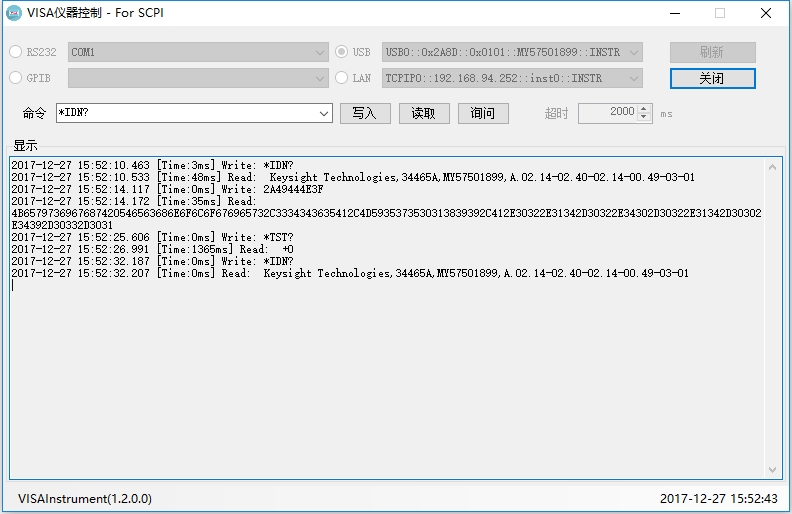
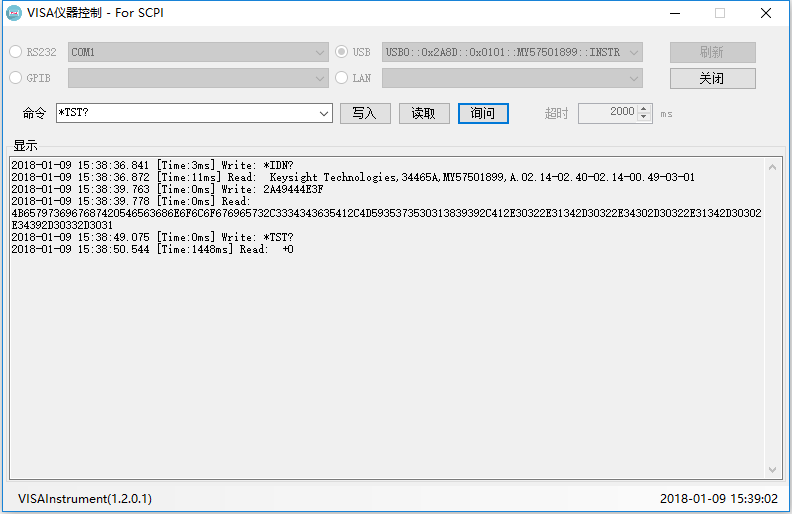
修正当无VISA32时不能正常显示软件的问题

diff --git a/VISAInstrument/FrmMain.Designer.cs b/VISAInstrument/FrmMain.Designer.cs
@@ -64,6 +64,13 @@
             this.flowLayoutPanel3 = new System.Windows.Forms.FlowLayoutPanel();
             this.lblCommand = new System.Windows.Forms.Label();
             this.cboCommand = new System.Windows.Forms.ComboBox();
+            this.cmsCommand = new System.Windows.Forms.ContextMenuStrip(this.components);
+            this.aSCIIToolStripMenuItem = new System.Windows.Forms.ToolStripMenuItem();
+            this.hexToolStripMenuItem = new System.Windows.Forms.ToolStripMenuItem();
+            this.toolStripMenuItem2 = new System.Windows.Forms.ToolStripSeparator();
+            this.全选ToolStripMenuItem1 = new System.Windows.Forms.ToolStripMenuItem();
+            this.复制ToolStripMenuItem1 = new System.Windows.Forms.ToolStripMenuItem();
+            this.粘贴ToolStripMenuItem = new System.Windows.Forms.ToolStripMenuItem();
             this.btnWrite = new System.Windows.Forms.Button();
             this.btnRead = new System.Windows.Forms.Button();
             this.btnQuery = new System.Windows.Forms.Button();
@@ -73,12 +80,6 @@
             this.flowLayoutPanel5 = new System.Windows.Forms.FlowLayoutPanel();
             this.lblIP = new System.Windows.Forms.Label();
             this.txtIPAddress = new System.Windows.Forms.TextBox();
-            this.cmsCommand = new System.Windows.Forms.ContextMenuStrip(this.components);
-            this.aSCIIToolStripMenuItem = new System.Windows.Forms.ToolStripMenuItem();
-            this.hexToolStripMenuItem = new System.Windows.Forms.ToolStripMenuItem();
-            this.toolStripMenuItem2 = new System.Windows.Forms.ToolStripSeparator();
-            this.复制ToolStripMenuItem1 = new System.Windows.Forms.ToolStripMenuItem();
-            this.粘贴ToolStripMenuItem = new System.Windows.Forms.ToolStripMenuItem();
             this.btnCheckIP = new System.Windows.Forms.Button();
             this.menuStrip1 = new System.Windows.Forms.MenuStrip();
             this.关于ToolStripMenuItem = new System.Windows.Forms.ToolStripMenuItem();
@@ -87,7 +88,6 @@
             this.toolStripMenuItem3 = new System.Windows.Forms.ToolStripSeparator();
             this.byCNXYToolStripMenuItem1 = new System.Windows.Forms.ToolStripMenuItem();
             this.时间ToolStripMenuItem = new System.Windows.Forms.ToolStripMenuItem();
-            this.全选ToolStripMenuItem1 = new System.Windows.Forms.ToolStripMenuItem();
             this.tableLayoutPanel.SuspendLayout();
             this.flowLayoutPanel1.SuspendLayout();
             this.flowLayoutPanel2.SuspendLayout();
@@ -95,9 +95,9 @@
             this.groupBoxDisplay.SuspendLayout();
             this.contextMenuStrip.SuspendLayout();
             this.flowLayoutPanel3.SuspendLayout();
+            this.cmsCommand.SuspendLayout();
             ((System.ComponentModel.ISupportInitialize)(this.nudTimeout)).BeginInit();
             this.flowLayoutPanel5.SuspendLayout();
-            this.cmsCommand.SuspendLayout();
             this.menuStrip1.SuspendLayout();
             this.SuspendLayout();
             // 
@@ -484,6 +484,61 @@
             this.cboCommand.Size = new System.Drawing.Size(277, 20);
             this.cboCommand.TabIndex = 1;
             // 
+            // cmsCommand
+            // 
+            this.cmsCommand.Items.AddRange(new System.Windows.Forms.ToolStripItem[] {
+            this.aSCIIToolStripMenuItem,
+            this.hexToolStripMenuItem,
+            this.toolStripMenuItem2,
+            this.全选ToolStripMenuItem1,
+            this.复制ToolStripMenuItem1,
+            this.粘贴ToolStripMenuItem});
+            this.cmsCommand.Name = "contextMenuStrip";
+            this.cmsCommand.Size = new System.Drawing.Size(108, 120);
+            this.cmsCommand.Opening += new System.ComponentModel.CancelEventHandler(this.cmsCommand_Opening);
+            // 
+            // aSCIIToolStripMenuItem
+            // 
+            this.aSCIIToolStripMenuItem.Checked = true;
+            this.aSCIIToolStripMenuItem.CheckState = System.Windows.Forms.CheckState.Checked;
+            this.aSCIIToolStripMenuItem.Name = "aSCIIToolStripMenuItem";
+            this.aSCIIToolStripMenuItem.Size = new System.Drawing.Size(107, 22);
+            this.aSCIIToolStripMenuItem.Text = "ASCII";
+            this.aSCIIToolStripMenuItem.Click += new System.EventHandler(this.aSCIIToolStripMenuItem_Click);
+            // 
+            // hexToolStripMenuItem
+            // 
+            this.hexToolStripMenuItem.Name = "hexToolStripMenuItem";
+            this.hexToolStripMenuItem.Size = new System.Drawing.Size(107, 22);
+            this.hexToolStripMenuItem.Text = "Hex";
+            this.hexToolStripMenuItem.Click += new System.EventHandler(this.hexToolStripMenuItem_Click);
+            // 
+            // toolStripMenuItem2
+            // 
+            this.toolStripMenuItem2.Name = "toolStripMenuItem2";
+            this.toolStripMenuItem2.Size = new System.Drawing.Size(104, 6);
+            // 
+            // 全选ToolStripMenuItem1
+            // 
+            this.全选ToolStripMenuItem1.Name = "全选ToolStripMenuItem1";
+            this.全选ToolStripMenuItem1.Size = new System.Drawing.Size(107, 22);
+            this.全选ToolStripMenuItem1.Text = "全选";
+            this.全选ToolStripMenuItem1.Click += new System.EventHandler(this.全选ToolStripMenuItem1_Click);
+            // 
+            // 复制ToolStripMenuItem1
+            // 
+            this.复制ToolStripMenuItem1.Name = "复制ToolStripMenuItem1";
+            this.复制ToolStripMenuItem1.Size = new System.Drawing.Size(107, 22);
+            this.复制ToolStripMenuItem1.Text = "复制";
+            this.复制ToolStripMenuItem1.Click += new System.EventHandler(this.复制ToolStripMenuItem1_Click);
+            // 
+            // 粘贴ToolStripMenuItem
+            // 
+            this.粘贴ToolStripMenuItem.Name = "粘贴ToolStripMenuItem";
+            this.粘贴ToolStripMenuItem.Size = new System.Drawing.Size(107, 22);
+            this.粘贴ToolStripMenuItem.Text = "粘贴";
+            this.粘贴ToolStripMenuItem.Click += new System.EventHandler(this.粘贴ToolStripMenuItem_Click);
+            // 
             // btnWrite
             // 
             this.btnWrite.Anchor = System.Windows.Forms.AnchorStyles.Left;
@@ -592,54 +647,6 @@
             this.txtIPAddress.Size = new System.Drawing.Size(277, 21);
             this.txtIPAddress.TabIndex = 1;
             // 
-            // cmsCommand
-            // 
-            this.cmsCommand.Items.AddRange(new System.Windows.Forms.ToolStripItem[] {
-            this.aSCIIToolStripMenuItem,
-            this.hexToolStripMenuItem,
-            this.toolStripMenuItem2,
-            this.全选ToolStripMenuItem1,
-            this.复制ToolStripMenuItem1,
-            this.粘贴ToolStripMenuItem});
-            this.cmsCommand.Name = "contextMenuStrip";
-            this.cmsCommand.Size = new System.Drawing.Size(153, 142);
-            this.cmsCommand.Opening += new System.ComponentModel.CancelEventHandler(this.cmsCommand_Opening);
-            // 
-            // aSCIIToolStripMenuItem
-            // 
-            this.aSCIIToolStripMenuItem.Checked = true;
-            this.aSCIIToolStripMenuItem.CheckState = System.Windows.Forms.CheckState.Checked;
-            this.aSCIIToolStripMenuItem.Name = "aSCIIToolStripMenuItem";
-            this.aSCIIToolStripMenuItem.Size = new System.Drawing.Size(152, 22);
-            this.aSCIIToolStripMenuItem.Text = "ASCII";
-            this.aSCIIToolStripMenuItem.Click += new System.EventHandler(this.aSCIIToolStripMenuItem_Click);
-            // 
-            // hexToolStripMenuItem
-            // 
-            this.hexToolStripMenuItem.Name = "hexToolStripMenuItem";
-            this.hexToolStripMenuItem.Size = new System.Drawing.Size(152, 22);
-            this.hexToolStripMenuItem.Text = "Hex";
-            this.hexToolStripMenuItem.Click += new System.EventHandler(this.hexToolStripMenuItem_Click);
-            // 
-            // toolStripMenuItem2
-            // 
-            this.toolStripMenuItem2.Name = "toolStripMenuItem2";
-            this.toolStripMenuItem2.Size = new System.Drawing.Size(149, 6);
-            // 
-            // 复制ToolStripMenuItem1
-            // 
-            this.复制ToolStripMenuItem1.Name = "复制ToolStripMenuItem1";
-            this.复制ToolStripMenuItem1.Size = new System.Drawing.Size(152, 22);
-            this.复制ToolStripMenuItem1.Text = "复制";
-            this.复制ToolStripMenuItem1.Click += new System.EventHandler(this.复制ToolStripMenuItem1_Click);
-            // 
-            // 粘贴ToolStripMenuItem
-            // 
-            this.粘贴ToolStripMenuItem.Name = "粘贴ToolStripMenuItem";
-            this.粘贴ToolStripMenuItem.Size = new System.Drawing.Size(152, 22);
-            this.粘贴ToolStripMenuItem.Text = "粘贴";
-            this.粘贴ToolStripMenuItem.Click += new System.EventHandler(this.粘贴ToolStripMenuItem_Click);
-            // 
             // btnCheckIP
             // 
             this.btnCheckIP.Anchor = System.Windows.Forms.AnchorStyles.Left;
@@ -710,13 +717,6 @@
             this.时间ToolStripMenuItem.Text = "时间";
             this.时间ToolStripMenuItem.Click += new System.EventHandler(this.时间ToolStripMenuItem_Click);
             // 
-            // 全选ToolStripMenuItem1
-            // 
-            this.全选ToolStripMenuItem1.Name = "全选ToolStripMenuItem1";
-            this.全选ToolStripMenuItem1.Size = new System.Drawing.Size(152, 22);
-            this.全选ToolStripMenuItem1.Text = "全选";
-            this.全选ToolStripMenuItem1.Click += new System.EventHandler(this.全选ToolStripMenuItem1_Click);
-            // 
             // FrmMain
             // 
             this.AcceptButton = this.btnOpen;
@@ -744,10 +744,10 @@
             this.contextMenuStrip.ResumeLayout(false);
             this.flowLayoutPanel3.ResumeLayout(false);
             this.flowLayoutPanel3.PerformLayout();
+            this.cmsCommand.ResumeLayout(false);
             ((System.ComponentModel.ISupportInitialize)(this.nudTimeout)).EndInit();
             this.flowLayoutPanel5.ResumeLayout(false);
             this.flowLayoutPanel5.PerformLayout();
-            this.cmsCommand.ResumeLayout(false);
             this.menuStrip1.ResumeLayout(false);
             this.menuStrip1.PerformLayout();
             this.ResumeLayout(false);

diff --git a/VISAInstrument/FrmMain.cs b/VISAInstrument/FrmMain.cs
@@ -253,56 +253,41 @@ namespace VISAInstrument
 
         private void btnRefresh_Click(object sender, EventArgs e)
         {
-            try
+            string title = Text;
+            t = Task.Factory.StartNew(() =>
             {
-                string title = Text;
-                t = Task.Factory.StartNew(() =>
+                InvokeToForm(() => { btnRefresh.Enabled = false; btnOpen.Enabled = false; Text = title + "【正在加载RS232资源中...请稍候...】"; });
+                string[] content1 = PortUltility.FindAddresses(PortType.RS232);
+                string[] content2 = PortUltility.FindRS232Type(content1);
+                List<string> list1 = new List<string>();
+                List<string> list2 = new List<string>();
+                for (int i = 0; i < content2.Length; i++)
                 {
-                    InvokeToForm(() => { btnRefresh.Enabled = false;btnOpen.Enabled = false; Text = title + "【正在加载RS232资源中...请稍候...】"; });
-                    string[] content1 = PortUltility.FindAddresses(PortType.RS232);
-                    string[] content2 = PortUltility.FindRS232Type(content1);
-                    List<string> list1 = new List<string>();
-                    List<string> list2 = new List<string>();
-                    for(int i=0;i<content2.Length;i++)
-                    {
-                        if (content2[i].Contains("LPT")) continue;
-                        list1.Add(content1[i]);
-                        list2.Add(content2[i]);
-                    }
-                    content1 = list1.ToArray();
-                    content2 = list2.ToArray();
-                    InvokeToForm(() => cboRS232.ShowAndDisplay(content1, content2));
-                    InvokeToForm(() => { Text = title + "【正在加载USB资源中...请稍候...】"; });
-                    content1 = PortUltility.FindAddresses(PortType.USB);
-                    InvokeToForm(() => cboUSB.ShowAndDisplay(content1));
-                    InvokeToForm(() => { Text = title + "【正在加载GPIB资源中...请稍候...】"; });
-                    content1 = PortUltility.FindAddresses(PortType.GPIB);
-                    InvokeToForm(() => cboGPIB.ShowAndDisplay(content1));
-                    InvokeToForm(() => { Text = title + "【正在加载LAN资源中...请稍候...】"; });
-                    content1 = PortUltility.FindAddresses(PortType.LAN);
-                    InvokeToForm(() => cboLAN.ShowAndDisplay(content1));
-                    InvokeToForm(() => { btnRefresh.Enabled = true; btnOpen.Enabled = true; Text = title; });
-                });
-            }
-            catch(Exception ex)
+                    if (content2[i].Contains("LPT")) continue;
+                    list1.Add(content1[i]);
+                    list2.Add(content2[i]);
+                }
+                content1 = list1.ToArray();
+                content2 = list2.ToArray();
+                InvokeToForm(() => cboRS232.ShowAndDisplay(content1, content2));
+                InvokeToForm(() => { Text = title + "【正在加载USB资源中...请稍候...】"; });
+                content1 = PortUltility.FindAddresses(PortType.USB);
+                InvokeToForm(() => cboUSB.ShowAndDisplay(content1));
+                InvokeToForm(() => { Text = title + "【正在加载GPIB资源中...请稍候...】"; });
+                content1 = PortUltility.FindAddresses(PortType.GPIB);
+                InvokeToForm(() => cboGPIB.ShowAndDisplay(content1));
+                InvokeToForm(() => { Text = title + "【正在加载LAN资源中...请稍候...】"; });
+                content1 = PortUltility.FindAddresses(PortType.LAN);
+                InvokeToForm(() => cboLAN.ShowAndDisplay(content1));
+                InvokeToForm(() => { btnRefresh.Enabled = true; btnOpen.Enabled = true; Text = title; });
+            }).ContinueWith(x=> 
             {
-                if(ex is ResultException || ex is DllNotFoundException)
-
+                if(x.IsFaulted)
                 {
-                    DialogResult result = MessageBox.Show($"{Resources.VISA32Error}\r\n\r{Resources.VISADownLoad}", Resources.RuntimeError, MessageBoxButtons.YesNo, MessageBoxIcon.Information);
-                    if (result == DialogResult.Yes)
-                    {
-                        Process.Start(Resources.VISA32URL);
-                    }
                     CancelDisplayForm = true;
+                    InvokeToForm(() => { tableLayoutPanel.Enabled = false; this.Text = Resources.RuntimeError; });
                 }
-                else
-                {
-                    MessageBox.Show(ex.Message);
-                }
-                btnRefresh.Enabled = true;
-                btnOpen.Enabled = true;
-            }
+            });
         }
 
 

diff --git a/VISAInstrument/Program.cs b/VISAInstrument/Program.cs
@@ -1,6 +1,7 @@
 using System;
 using System.Threading;
 using System.Windows.Forms;
+using System.Diagnostics;
 using VISAInstrument.Properties;
 
 namespace VISAInstrument
@@ -21,7 +22,31 @@ namespace VISAInstrument
             }
             Application.EnableVisualStyles();
             Application.SetCompatibleTextRenderingDefault(false);
+            AppDomain.CurrentDomain.UnhandledException += CurrentDomain_UnhandledException;
+
             Application.Run(new FrmMain());
+        }
+
+
+        private static void CurrentDomain_UnhandledException(object sender, UnhandledExceptionEventArgs e)
+        {
+            AppDomain appDomain = sender as AppDomain;
+            Exception ex = (Exception)e.ExceptionObject;
+            if (ex is DllNotFoundException)
+            {
+                DialogResult result = MessageBox.Show($"{Resources.VISA32Error}\r\n\r{Resources.VISADownLoad}", Resources.RuntimeError, MessageBoxButtons.YesNo, MessageBoxIcon.Information);
+
+                if (result == DialogResult.Yes)
+                {
+                    Process.Start(Resources.VISA32URL);
+                }
+            }
+            else
+            {
+                MessageBox.Show(ex.Message);
+            }
+
+            Environment.Exit(1);
         }
     }
 }

diff --git a/VISAInstrument/Ulitity/PortUlitity.cs b/VISAInstrument/Ulitity/PortUlitity.cs
@@ -33,8 +33,15 @@ namespace VISAInstrument.Port
             try
             {
                 result = GlobalResourceManager.Find($"{ToStringFromPortType(portType)}?*INSTR");
+            }catch(Exception ex)
+            {
+                if (!(ex is NativeVisaException))
+                {
+                    if (ex.InnerException != null) throw ex.InnerException;
+                    else throw ex;
+                }
             }
-            catch{ }
+
             return result.ToArray().Where(n=>!n.Contains("//")).ToArray();
         }
 
@@ -50,7 +57,7 @@ namespace VISAInstrument.Port
                 }
                 catch
                 {
-                    list.Add("None");
+                    //list.Add("None");
                 }
             }
             return list.ToArray();
@@ -76,10 +83,5 @@ namespace VISAInstrument.Port
         {
            return FindAddresses(PortType.None);
         }
-    }
-
-    class ResultException : Exception
-    {
-        public ResultException(string message) : base(message) { }
     }
 }

diff --git a/VISAInstrument/Properties/AssemblyInfo.cs b/VISAInstrument/Properties/AssemblyInfo.cs
@@ -32,5 +32,5 @@ using System.Runtime.InteropServices;
 // 可以指定所有值，也可以使用以下所示的 "*" 预置版本号和修订号
 // 方法是按如下所示使用“*”: :
 // [assembly: AssemblyVersion("1.0.*")]
-[assembly: AssemblyVersion("1.2.0.0")]
-[assembly: AssemblyFileVersion("1.2.0.0")]
+[assembly: AssemblyVersion("1.2.0.1")]
+[assembly: AssemblyFileVersion("1.2.0.1")]
